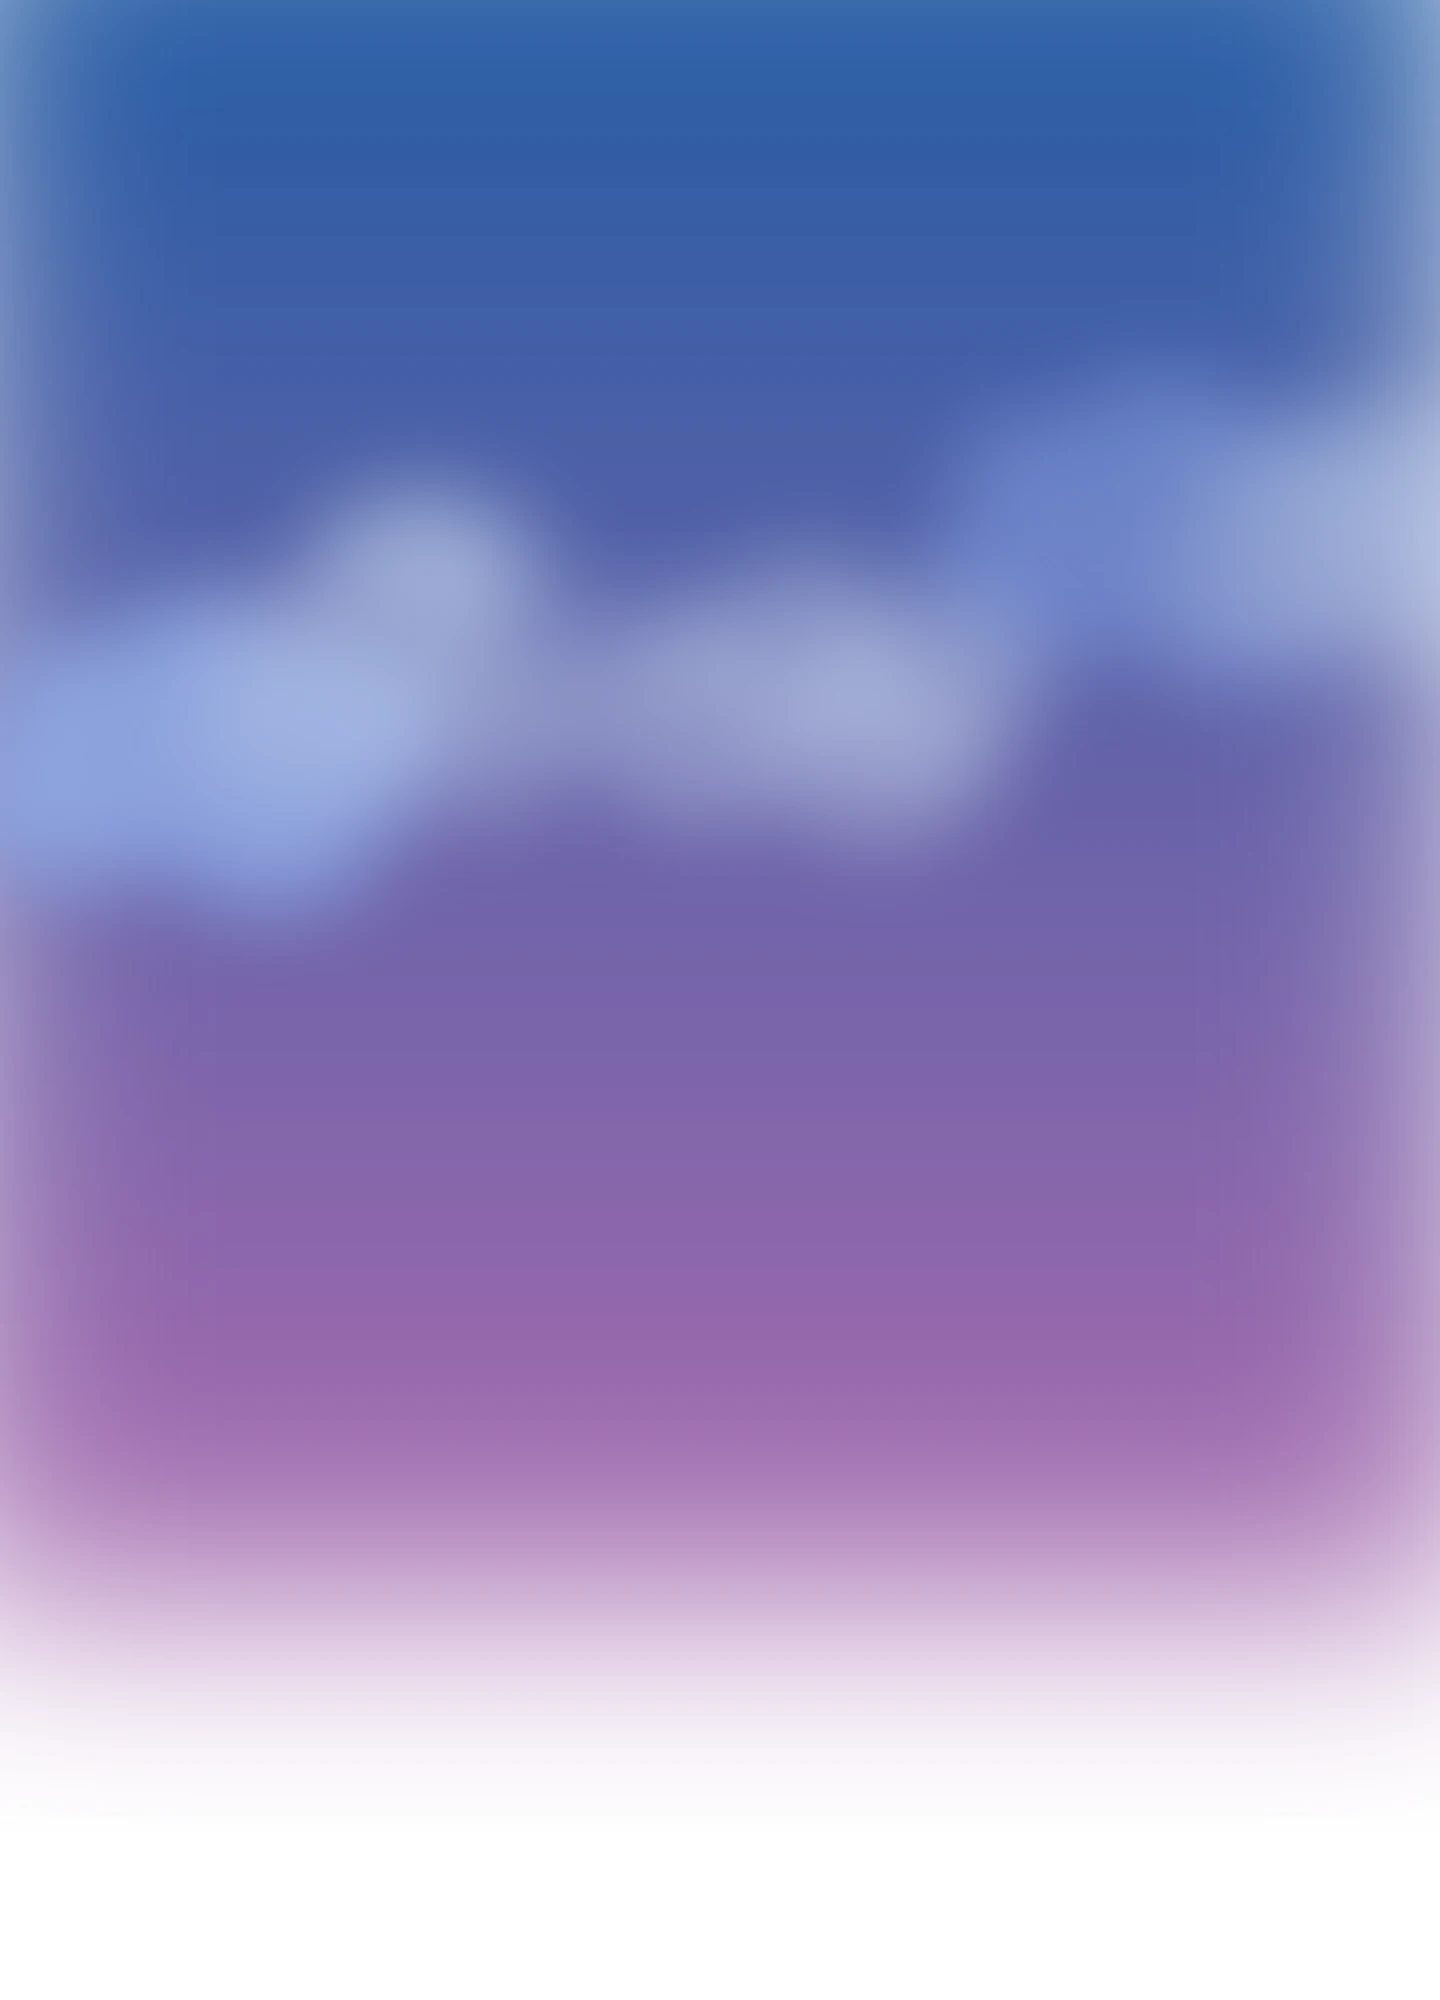
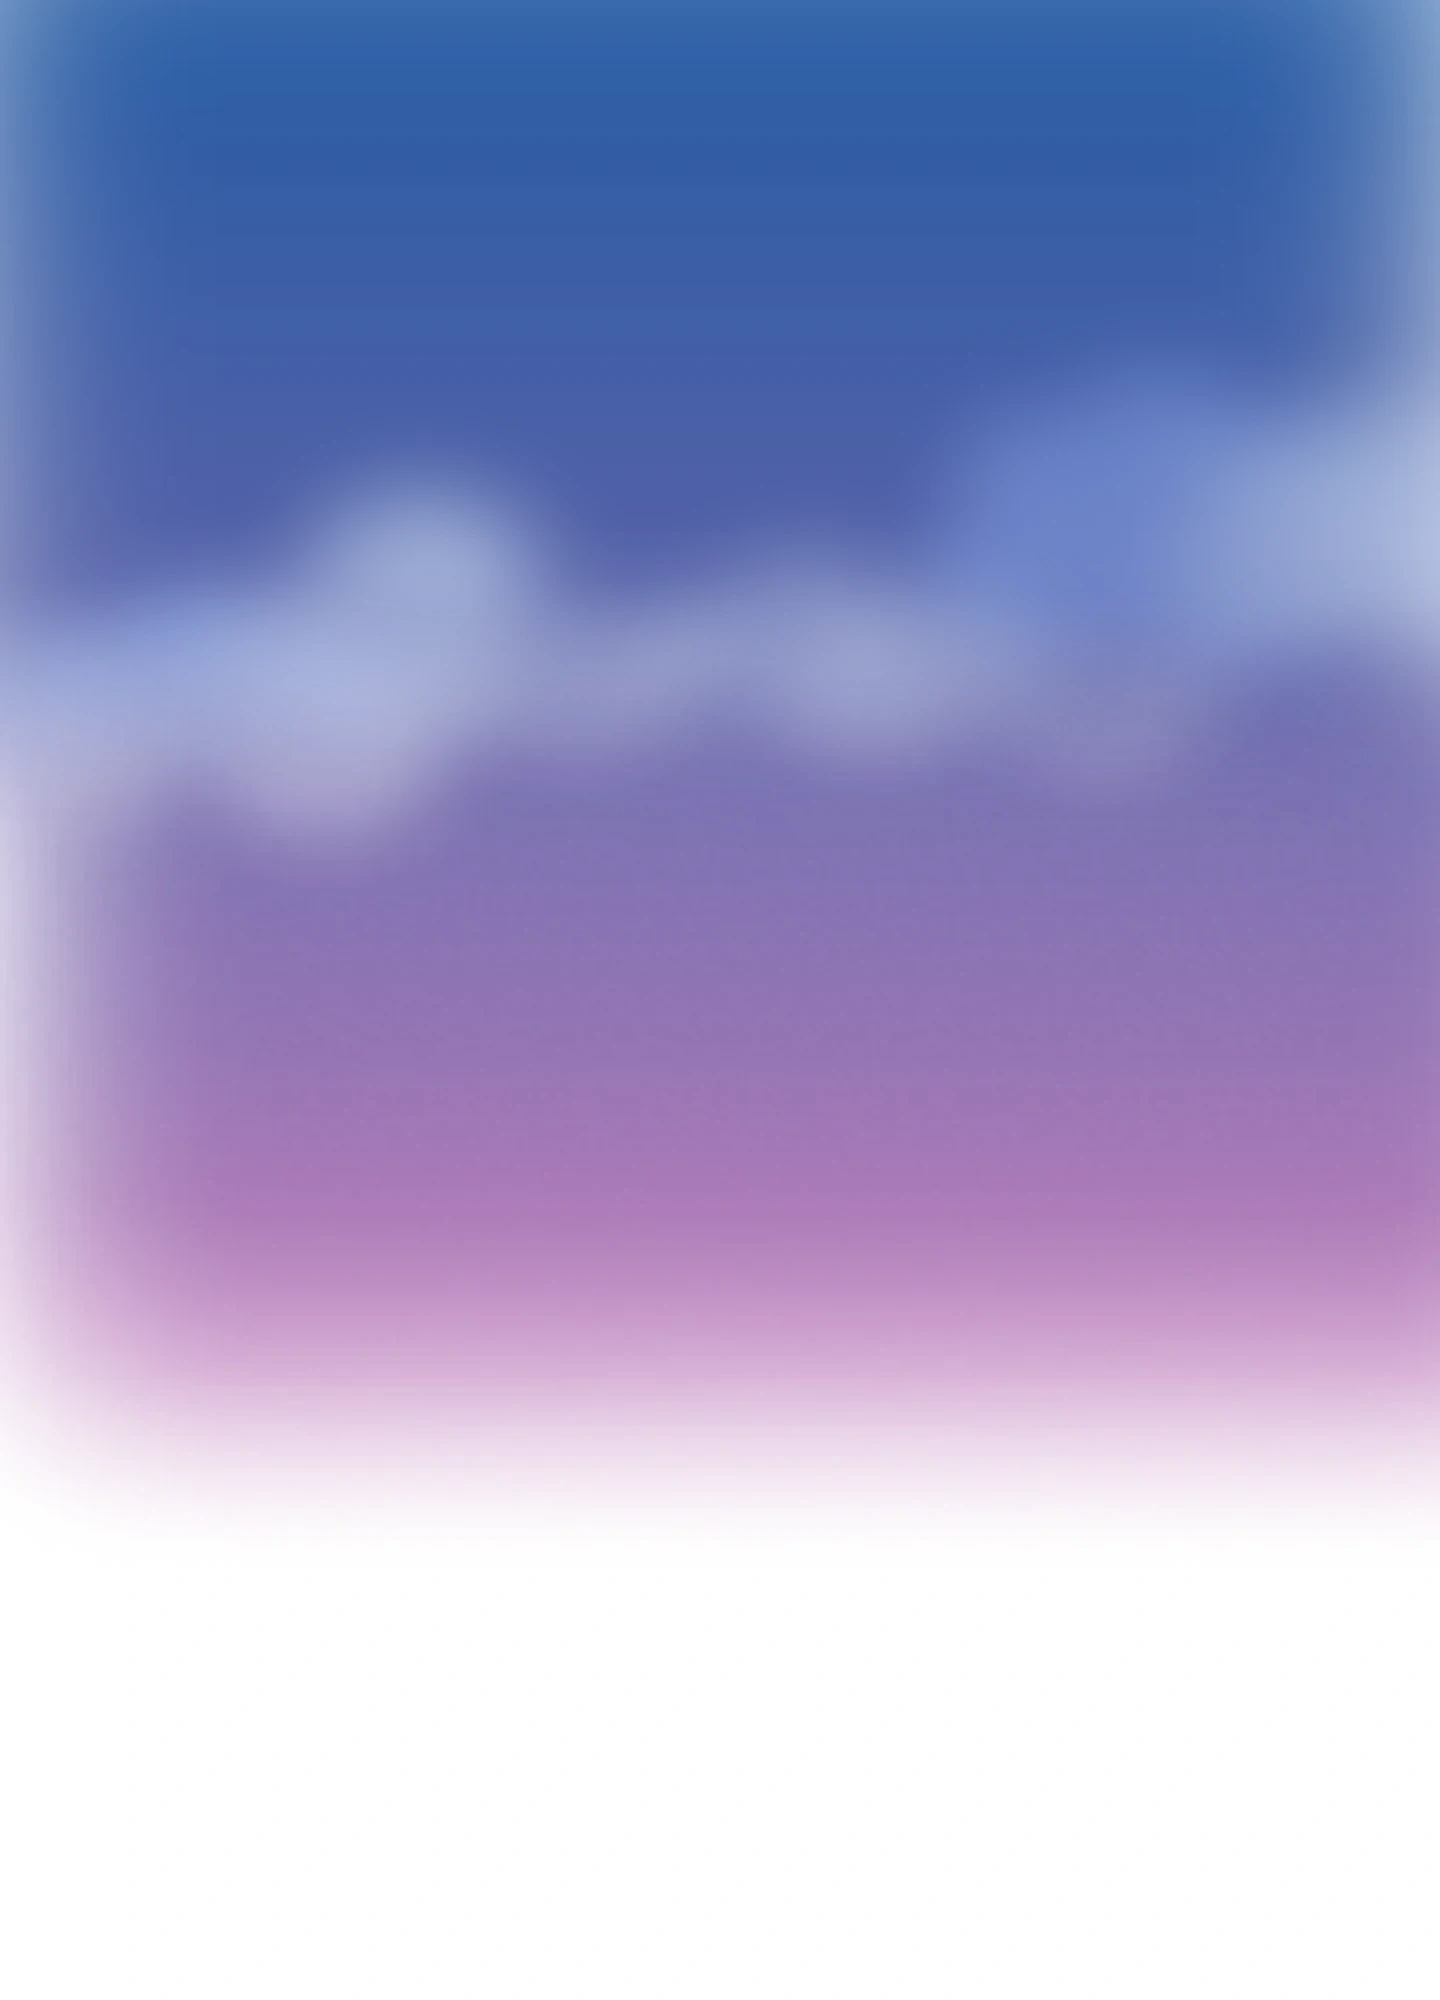
Restore the Hello section as before; keep the new clouds around Portfolio
The pinned About scene is back to the version before the shortening: the
earlier sky and cloud bank around Hello, and the original timing of the white
shape. The new Figma clouds stay at the top around "Portfolio" and blend into
the earlier sky below them.

Claude-Session: https://claude.ai/code/session_01DvA43kwznhfsetrajp2DeL

diff --git a/styles.css b/styles.css
@@ -35,8 +35,8 @@ body {
   width: 1440px;
   height: 6422px;
   overflow: clip;   /* not hidden: that would stop the sticky chameleon */
-  /* the sky: Figma gradient and hero clouds (sky.svg rendered to sky.webp); the sea below is drawn in code */
-  background: #fff url("assets/sky.webp") top left / 1440px 2000px no-repeat;
+  /* the sky: the new Figma clouds around "Portfolio" blending into the earlier sky around Hello; the sea below is drawn in code */
+  background: #fff url("assets/sky.webp?v=2") top left / 1440px 2000px no-repeat;
   /* script.js sets `zoom` so the 1440px design fills the viewport width */
 }
 
@@ -66,7 +66,7 @@ body {
 .pin-wrap { position: absolute; left: 0; top: 459px; width: 1440px; height: 2200px; }
 .pin {
   position: sticky; top: var(--pin-top, -361px); width: 1440px; height: 1500px; overflow: clip;
-  background: #fff url("assets/sky.webp") 0 -459px / 1440px 2000px no-repeat;
+  background: #fff url("assets/sky.webp?v=2") 0 -459px / 1440px 2000px no-repeat;
 }
 
 /* moved by script.js while pinned: the white cloud shape settles in the centre,
@@ -565,7 +565,7 @@ a:focus-visible { outline: 2px solid var(--white); outline-offset: 4px; }
 
   .sec {
     position: relative; top: auto !important; width: 100%; padding: 0 20px;
-    background: url("assets/sky.webp") no-repeat;
+    background: url("assets/sky.webp?v=2") no-repeat;
     background-size: calc(1440px * var(--s, 1)) auto;
     background-position: center calc(var(--y0, 0) * var(--s, 1) * -1px);
   }
@@ -583,9 +583,9 @@ a:focus-visible { outline: 2px solid var(--white); outline-offset: 4px; }
      second background, and the crop fades into the white of the Work section */
   #about {
     --y0: 750; --s: .8; min-height: 690px; padding-top: 40px; padding-bottom: 110px;
-    background-image: url("assets/clouds-bank.webp"), url("assets/sky.webp");
+    background-image: url("assets/clouds.webp"), url("assets/sky.webp?v=2");
     background-size: calc(1440px * var(--s)) auto;
-    background-position: calc(-60px * var(--s)) calc((959 - var(--y0)) * var(--s) * 1px), calc(-60px * var(--s)) calc(var(--y0) * var(--s) * -1px);
+    background-position: calc(-60px * var(--s)) calc((1190 - var(--y0)) * var(--s) * 1px), calc(-60px * var(--s)) calc(var(--y0) * var(--s) * -1px);
   }
   #about::after { content: ""; position: absolute; left: 0; right: 0; bottom: 0; height: 110px; pointer-events: none; background: linear-gradient(rgba(255, 255, 255, 0), #fff); }
   #hello { width: 52%; max-width: 230px; }

diff --git a/script.js b/script.js
@@ -106,7 +106,7 @@ if (sparkle && matchMedia('(hover: hover) and (pointer: fine)').matches) {
 
 // About, pinned. The scene (stage y 459–1959) sticks once the screen's bottom edge
 // reaches stage y 1720 and stays for the next HOLD px of scrolling (styles.css).
-// Over that stretch: the About text and "?" fade, the pink cloud bank parts to
+// Over that stretch: the About text and "?" fade, the blue cloud bank parts to
 // the sides, the white cloud shape glides to the centre and sinks until only the
 // sky's straight bottom edge is left — which holds for a moment before the scene
 // lets go and Work scrolls up.
@@ -129,7 +129,7 @@ function moveSky() {
   }
   // 0 just before the scene pins (LEAD px earlier), 1 when it lets go
   const t = Math.max(0, Math.min(1, (-stage.getBoundingClientRect().top / z - (PIN_BOTTOM - vh - LEAD)) / (HOLD + LEAD)));
-  const fade = ramp(t, 0, .22), part = ramp(t, .04, .36), glide = ramp(t, .08, .34), sink = ramp(t, .34, .6);
+  const fade = ramp(t, 0, .25), part = ramp(t, .05, .45), glide = ramp(t, .1, .45), sink = ramp(t, .45, .78);
   about.style.opacity = fade ? (1 - fade).toFixed(3) : '';
   about.style.visibility = fade >= 1 ? 'hidden' : '';
   const move = !reduceMotion.matches;
@@ -141,7 +141,7 @@ function moveSky() {
   // sky's edge into the white, leaving just a horizontal line
   const g = move ? glide : 0, dy = 289 * g + (move ? 500 * sink : 0);
   puff.style.transform = g ? `translate(${((720 - PUFF_CX) * g).toFixed(1)}px, ${dy.toFixed(1)}px) scale(${(1 - .2 * g).toFixed(3)})` : '';
-  puff.style.opacity = sink ? (1 - ramp(t, .48, .6)).toFixed(3) : '';
+  puff.style.opacity = sink ? (1 - ramp(t, .62, .78)).toFixed(3) : '';
 }
 if (about && puff && cloudsL && cloudsR) {
   const queueSky = () => { if (!skyQueued) { skyQueued = true; requestAnimationFrame(moveSky); } };

diff --git a/index.html b/index.html
@@ -11,7 +11,7 @@
   <link rel="preconnect" href="https://fonts.googleapis.com">
   <link rel="preconnect" href="https://fonts.gstatic.com" crossorigin>
   <link rel="stylesheet" href="https://fonts.googleapis.com/css2?family=Archivo:wdth,wght@125,400;125,700&family=Italiana&family=Unbounded:wght@300;400;500&display=swap">
-  <link rel="stylesheet" href="styles.css?v=89481efe">
+  <link rel="stylesheet" href="styles.css?v=5016c40d">
   <script>document.documentElement.classList.add('js', 'is-loading')</script>
 </head>
 <body>
@@ -38,8 +38,8 @@
     <div class="pin-wrap" id="pinWrap">
       <div class="pin" id="pin">
         <img class="l sky-puff" id="skyPuff" style="--x:661px;--y:306px;--w:695px;--h:855px" src="assets/sky-puff.webp" alt="">
-        <img class="l clouds-px clouds-l" id="cloudsL" style="--x:0;--y:500px;--w:1440px;--h:900px" src="assets/clouds-bank.webp" alt="">
-        <img class="l clouds-px clouds-r" id="cloudsR" style="--x:0;--y:500px;--w:1440px;--h:900px" src="assets/clouds-bank.webp" alt="">
+        <img class="l clouds-px clouds-l" id="cloudsL" style="--x:0;--y:731px;--w:1440px;--h:700px" src="assets/clouds.webp" alt="">
+        <img class="l clouds-px clouds-r" id="cloudsR" style="--x:0;--y:731px;--w:1440px;--h:700px" src="assets/clouds.webp" alt="">
 
         <section class="sec" id="about" style="top:400px" aria-labelledby="hello">
           <h2 class="l reveal type" id="hello" style="--d:0s;--x:178.65px;--y:11.58px"><img src="assets/type-hello.svg" width="306" height="121" alt="Hello,"></h2>
@@ -223,7 +223,7 @@
   </div>
 
   <script src="loader.js?v=68ee955a"></script>
-  <script src="script.js?v=3d3da481"></script>
+  <script src="script.js?v=fc747467"></script>
   <script src="about.js?v=37dfe53c"></script>
   <script src="chameleon.js?v=6d5acc35"></script>
 </body>

diff --git a/README.md b/README.md
@@ -3,8 +3,8 @@
 Static one-page portfolio built from the Figma frame **Main** (node `315:133`) in the
 `PORTFOLIO` file. Open `index.html` in a browser — no build step.
 
-- `assets/sky.webp` — the sky from the Figma frame (gradient and hero clouds), rendered from `sky.svg`;
-  `clouds-bank.webp` (from `clouds-bank.svg`) is the pink cloud bank that parts while About is pinned, `sky-puff.webp` the white
+- `assets/sky.webp` — the sky: the Figma hero clouds (from `sky.svg`) blending into the earlier sky
+  around Hello; `clouds.webp` is the cloud bank that parts while About is pinned, `sky-puff.webp` the white
   cloud shape behind the "?".
 - The sea is drawn in code (`.sea` in `styles.css`, Figma colour #3EBDCD); the caustics, coral and seabed
   are Figma vectors (`caustics.svg`, `coral.svg`, `coral-small.svg`, `seabed.svg`), the laptop is
